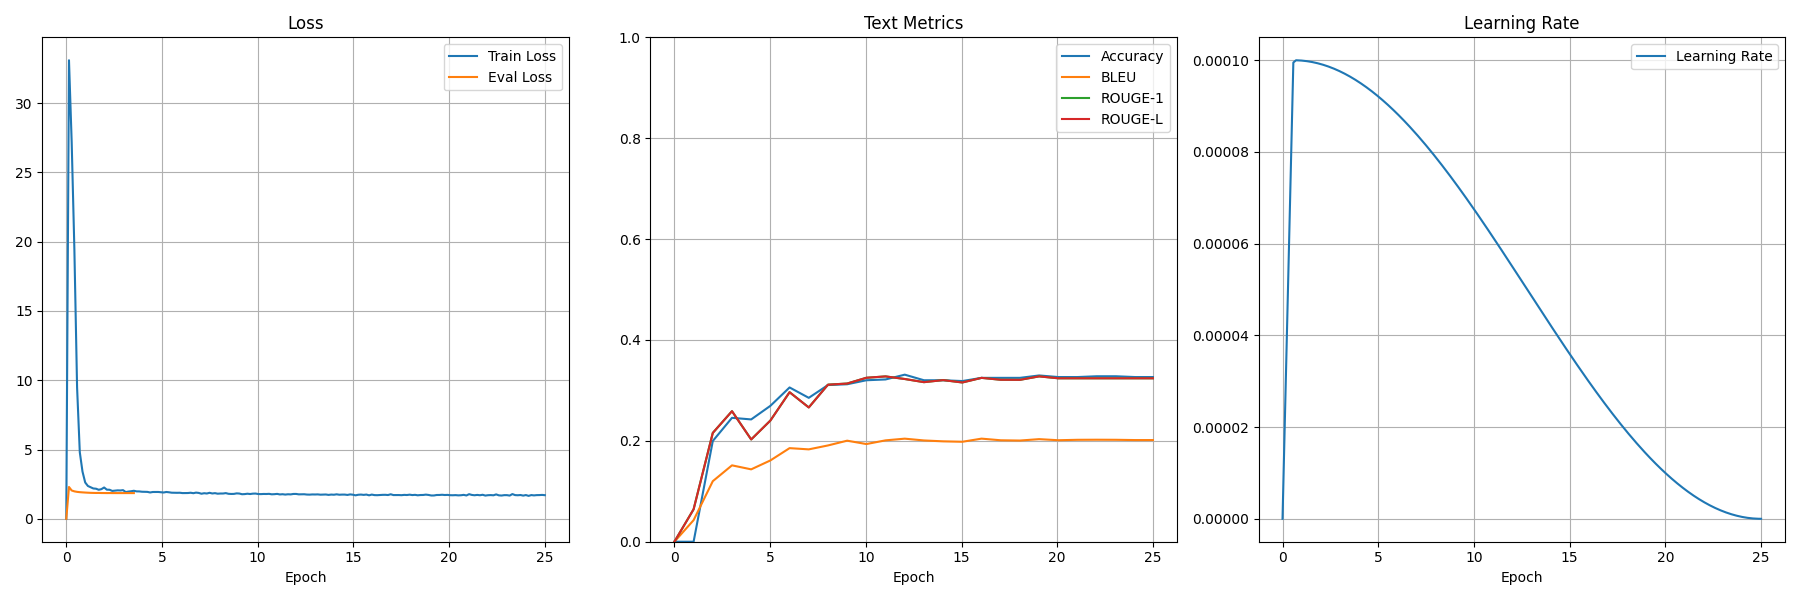
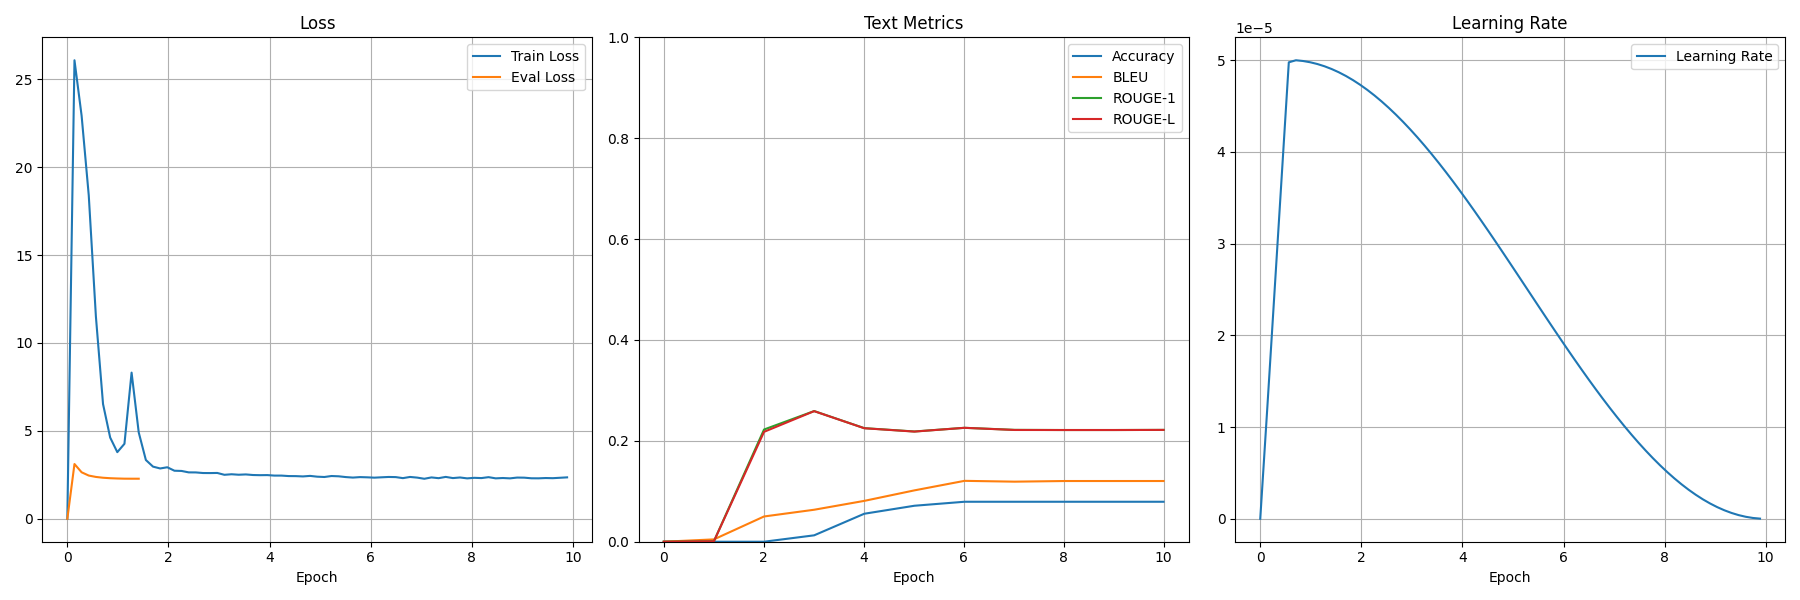
WIP

diff --git a/model_new_ruBERT-tiny2.py b/model_new_ruBERT-tiny2.py
@@ -1,0 +1,272 @@
+import pandas as pd
+import torch
+import numpy as np
+from torch.utils.data import Dataset, DataLoader
+from transformers import (
+    AutoTokenizer,
+    AutoModelForMaskedLM,
+    AdamW,
+    get_cosine_schedule_with_warmup
+)
+from sklearn.model_selection import train_test_split
+import matplotlib.pyplot as plt
+import time
+import os
+from tqdm import tqdm
+from collections import defaultdict
+
+# Конфигурация
+os.makedirs('new_ruBERT-tiny2/train_results', exist_ok=True)
+os.makedirs('new_ruBERT-tiny2/best_model', exist_ok=True)
+
+# Усиленные параметры регуляризации
+MAX_LEN = 128
+BATCH_SIZE = 16
+EPOCHS = 40  # Увеличено для полного обучения
+LEARNING_RATE = 3e-5
+WARMUP_STEPS = 400  # Увеличенный warmup
+DROPOUT_RATE = 0.2  # Усиленный dropout
+WEIGHT_DECAY = 0.02  # Усиленная L2 регуляризация
+PATIENCE = 4  # Увеличенный patience для ранней остановки
+
+# Загрузка и аугментация данных
+data = pd.read_csv("Data/data_slang_final_shuffled.csv", encoding='utf-8')
+
+# 1. Аугментация данных через синонимы
+slang_synonyms = {
+    "ТГ": ["Телеграм", "Телеграмм", "TG"],
+    "гостить": ["пропадать", "забивать", "исчезать"]
+}
+
+def augment_data(df, synonyms, num_augments=2):
+    augmented_rows = []
+    for _, row in df.iterrows():
+        slang = row['slang_word']
+        if slang in synonyms:
+            for synonym in np.random.choice(synonyms[slang], size=min(num_augments, len(synonyms[slang])), replace=False):
+                new_sentence = row['sentence'].replace(slang, synonym)
+                augmented_rows.append({
+                    'sentence': new_sentence,
+                    'slang_word': synonym,
+                    'correct_word': row['correct_word'],
+                    'corrected_sentence': new_sentence.replace(synonym, row['correct_word'])
+                })
+    return pd.concat([df, pd.DataFrame(augmented_rows)], ignore_index=True)
+
+augmented_data = augment_data(data, slang_synonyms)
+
+# 2. Балансировка классов
+slang_counts = augmented_data['slang_word'].value_counts()
+max_count = slang_counts.max()
+balanced_data = pd.DataFrame()
+
+for slang in slang_counts.index:
+    slang_data = augmented_data[augmented_data['slang_word'] == slang]
+    if len(slang_data) < max_count:
+        oversampled = slang_data.sample(max_count - len(slang_data), replace=True, random_state=42)
+        slang_data = pd.concat([slang_data, oversampled])
+    balanced_data = pd.concat([balanced_data, slang_data])
+
+train_data, val_data = train_test_split(balanced_data, test_size=0.1, random_state=42)
+
+# Датасет с улучшенной обработкой
+class AugmentedSlangDataset(Dataset):
+    def __init__(self, data, tokenizer, max_len):
+        self.data = data
+        self.tokenizer = tokenizer
+        self.max_len = max_len
+
+    def __len__(self):
+        return len(self.data)
+
+    def __getitem__(self, idx):
+        item = self.data.iloc[idx]
+        sentence = item['sentence']
+        corrected = item['corrected_sentence']
+
+        # Токенизация
+        inputs = self.tokenizer(
+            sentence,
+            max_length=self.max_len,
+            padding='max_length',
+            truncation=True,
+            return_tensors='pt'
+        )
+
+        targets = self.tokenizer(
+            corrected,
+            max_length=self.max_len,
+            padding='max_length',
+            truncation=True,
+            return_tensors='pt'
+        )
+
+        return {
+            'input_ids': inputs['input_ids'].flatten(),
+            'attention_mask': inputs['attention_mask'].flatten(),
+            'labels': targets['input_ids'].flatten(),
+            'target_mask': (targets['input_ids'] != self.tokenizer.pad_token_id).float().flatten()
+        }
+
+# Инициализация модели с усиленной регуляризацией
+tokenizer = AutoTokenizer.from_pretrained("cointegrated/rubert-tiny2")
+model = AutoModelForMaskedLM.from_pretrained("cointegrated/rubert-tiny2")
+
+# Усиленный dropout
+model.config.hidden_dropout_prob = DROPOUT_RATE
+model.config.attention_probs_dropout_prob = DROPOUT_RATE
+
+# Частичная заморозка слоев (улучшение 2)
+for param in model.bert.encoder.layer[:6].parameters():  # Замораживаем первые 6 из 12 слоев
+    param.requires_grad = False
+
+# Подготовка данных
+train_dataset = AugmentedSlangDataset(train_data, tokenizer, MAX_LEN)
+val_dataset = AugmentedSlangDataset(val_data, tokenizer, MAX_LEN)
+
+train_loader = DataLoader(train_dataset, batch_size=BATCH_SIZE, shuffle=True)
+val_loader = DataLoader(val_dataset, batch_size=BATCH_SIZE, shuffle=False)
+
+# Оптимизатор с усиленной регуляризацией
+optimizer = AdamW(
+    filter(lambda p: p.requires_grad, model.parameters()),  # Только незамороженные параметры
+    lr=LEARNING_RATE,
+    weight_decay=WEIGHT_DECAY,
+    correct_bias=False
+)
+total_steps = len(train_loader) * EPOCHS
+
+scheduler = get_cosine_schedule_with_warmup(
+    optimizer,
+    num_warmup_steps=WARMUP_STEPS,
+    num_training_steps=total_steps,
+    num_cycles=0.5
+)
+
+device = torch.device('cuda' if torch.cuda.is_available() else 'cpu')
+model.to(device)
+
+# Метрики с улучшенной обработкой PAD-токенов
+def masked_accuracy(preds, labels, mask):
+    preds = torch.argmax(preds, dim=2)
+    correct = (preds == labels) * mask
+    return correct.sum().item() / mask.sum().item()
+
+def train_epoch(model, dataloader, optimizer, scheduler, device):
+    model.train()
+    total_loss, total_acc = 0, 0
+
+    for batch in tqdm(dataloader, desc="Training"):
+        optimizer.zero_grad()
+
+        inputs = {k: v.to(device) for k, v in batch.items() if k != 'target_mask'}
+        outputs = model(**inputs)
+
+        loss = outputs.loss
+        acc = masked_accuracy(outputs.logits, inputs['labels'], batch['target_mask'].to(device))
+
+        loss.backward()
+        torch.nn.utils.clip_grad_norm_(model.parameters(), 1.0)
+        optimizer.step()
+        scheduler.step()
+
+        total_loss += loss.item()
+        total_acc += acc
+
+    return total_loss / len(dataloader), total_acc / len(dataloader)
+
+def eval_epoch(model, dataloader, device):
+    model.eval()
+    total_loss, total_acc = 0, 0
+
+    with torch.no_grad():
+        for batch in tqdm(dataloader, desc="Validation"):
+            inputs = {k: v.to(device) for k, v in batch.items() if k != 'target_mask'}
+            outputs = model(**inputs)
+
+            loss = outputs.loss
+            acc = masked_accuracy(outputs.logits, inputs['labels'], batch['target_mask'].to(device))
+
+            total_loss += loss.item()
+            total_acc += acc
+
+    return total_loss / len(dataloader), total_acc / len(dataloader)
+
+# Обучение с улучшенным логированием
+best_val_loss = float('inf')
+patience_counter = 0
+history = defaultdict(list)
+
+for epoch in range(EPOCHS):
+    print(f"\nEpoch {epoch + 1}/{EPOCHS}")
+    start_time = time.time()
+
+    train_loss, train_acc = train_epoch(model, train_loader, optimizer, scheduler, device)
+    val_loss, val_acc = eval_epoch(model, val_loader, device)
+
+    epoch_time = time.time() - start_time
+    current_lr = scheduler.get_last_lr()[0]
+
+    # Сохранение истории
+    history['train_loss'].append(train_loss)
+    history['val_loss'].append(val_loss)
+    history['train_acc'].append(train_acc)
+    history['val_acc'].append(val_acc)
+    history['lr'].append(current_lr)
+    history['epoch_time'].append(epoch_time)
+
+    # Сохранение лучшей модели
+    if val_loss < best_val_loss:
+        best_val_loss = val_loss
+        model.save_pretrained('new_ruBERT-tiny2/best_model')
+        tokenizer.save_pretrained('new_ruBERT-tiny2/best_model')
+        patience_counter = 0
+    else:
+        patience_counter += 1
+
+    # Логирование
+    log_msg = (
+        f"Epoch {epoch + 1}/{EPOCHS}\n"
+        f"Train Loss: {train_loss:.4f} | Acc: {train_acc:.4f}\n"
+        f"Val Loss: {val_loss:.4f} | Acc: {val_acc:.4f}\n"
+        f"LR: {current_lr:.2e} | Time: {epoch_time:.2f}s\n"
+    )
+    print(log_msg)
+
+    with open('new_ruBERT-tiny2/train_results/training_log.txt', 'a') as f:
+        f.write(log_msg + "\n")
+
+    # Ранняя остановка
+    if patience_counter >= PATIENCE:
+        print(f"\nEarly stopping after {PATIENCE} epochs without improvement")
+        break
+
+# Сохранение финальной модели и визуализация
+model.save_pretrained('new_ruBERT-tiny2/final_model')
+tokenizer.save_pretrained('new_ruBERT-tiny2/final_model')
+
+plt.figure(figsize=(15, 5))
+plt.subplot(1, 3, 1)
+plt.plot(history['train_loss'], label='Train')
+plt.plot(history['val_loss'], label='Validation')
+plt.title('Loss')
+plt.legend()
+
+plt.subplot(1, 3, 2)
+plt.plot(history['train_acc'], label='Train')
+plt.plot(history['val_acc'], label='Validation')
+plt.title('Accuracy')
+plt.legend()
+
+plt.subplot(1, 3, 3)
+plt.plot(history['lr'], label='Learning Rate')
+plt.title('LR Schedule')
+plt.legend()
+
+plt.tight_layout()
+plt.savefig('new_ruBERT-tiny2/train_results/metrics.png')
+plt.show()
+
+print("\nTraining complete!")
+print(f"Best Val Loss: {best_val_loss:.4f}")
+print(f"Best Val Accuracy: {max(history['val_acc']):.4f}")

diff --git a/rework/learn_rut5small.py b/rework/learn_rut5small.py
@@ -35,12 +35,9 @@ class LogCallback(TrainerCallback):
                 f"Пользователь: {ex.get('ticket_message', 'нет')}"
             )
             input_ids = self.tokenizer.encode(
-                ex['text'], return_tensors="pt", max_length=256, truncation=True
+                ex["text"], return_tensors="pt", max_length=256, truncation=True
             ).to(model.device)
-            outputs = model.generate(
-                input_ids,
-                max_length=64
-            )
+            outputs = model.generate(input_ids, max_length=64)
             answer = self.tokenizer.decode(outputs[0], skip_special_tokens=True)
 
             print(f"\n[Категория]: {ex.get('category_title', 'нет')}")
@@ -168,17 +165,14 @@ if __name__ == "__main__":
         full_data = json.load(f)
 
     train_data, test_data = train_test_split(
-        full_data,
-        test_size=0.1,
-        random_state=42,
-        shuffle=True
+        full_data, test_size=0.1, random_state=42, shuffle=True
     )
 
     train_dataset = Dataset.from_list(train_data)
     test_dataset = Dataset.from_list(test_data)
 
-    model = T5ForConditionalGeneration.from_pretrained("cointegrated/rut5-base")
-    tokenizer = T5Tokenizer.from_pretrained("cointegrated/rut5-base", legacy=False)
+    model = T5ForConditionalGeneration.from_pretrained("cointegrated/rut5-small")
+    tokenizer = T5Tokenizer.from_pretrained("cointegrated/rut5-small", legacy=False)
 
     freeze_encoder(model, unfreeze_last_n=2)
 
@@ -188,11 +182,12 @@ if __name__ == "__main__":
     tokenized_train = train_dataset.map(
         preprocess, remove_columns=train_dataset.column_names
     )
-    tokenized_test = test_dataset.map(preprocess, remove_columns=test_dataset.column_names)
-
+    tokenized_test = test_dataset.map(
+        preprocess, remove_columns=test_dataset.column_names
+    )
 
     training_args = Seq2SeqTrainingArguments(
-        output_dir="./rut5base-finetuned",
+        output_dir="./rut5small-finetuned",
         num_train_epochs=10,
         learning_rate=5e-5,
         weight_decay=0.01,
@@ -230,8 +225,8 @@ if __name__ == "__main__":
 
     trainer.train()
 
-    trainer.save_model("./rut5base-finetuned")
-    tokenizer.save_pretrained("./rut5base-finetuned")
+    trainer.save_model("./rut5small-finetuned")
+    tokenizer.save_pretrained("./rut5small-finetuned")
     print("\n✅ Обучение завершено и модель сохранена")
 
     # === Графики ===
@@ -323,7 +318,7 @@ if __name__ == "__main__":
 
     plt.tight_layout()
     os.makedirs("train_results", exist_ok=True)
-    plt.savefig("train_results/metrics.png")
+    plt.savefig("train_results/metrics-rut5-small.png")
     plt.show()
 
-    print("\n📊 Графики сохранены в train_results/metrics-rut5-base.png")
+    print("\n📊 Графики сохранены в train_results/metrics.png")

diff --git a/model_use.py b/model_use.py
@@ -1,0 +1,43 @@
+import torch
+from transformers import AutoTokenizer, AutoModelForMaskedLM
+
+# Загрузка обученной модели и токенизатора
+model_path = 'new_ruBERT-tiny2/best_model'
+tokenizer = AutoTokenizer.from_pretrained(model_path)
+model = AutoModelForMaskedLM.from_pretrained(model_path)
+
+device = torch.device('cuda' if torch.cuda.is_available() else 'cpu')
+model = model.to(device)
+model.eval()
+
+
+# Функция для исправления сленга в предложении
+def correct_slang(sentence):
+    # Токенизация предложения
+    inputs = tokenizer(sentence, return_tensors="pt", max_length=128, truncation=True)
+    inputs = {key: val.to(device) for key, val in inputs.items()}
+
+    with torch.no_grad():
+        outputs = model(**inputs)
+
+    logits = outputs.logits
+    predicted_ids = logits.argmax(dim=-1)
+
+    corrected_sentence = tokenizer.decode(predicted_ids[0], skip_special_tokens=True)
+
+    return corrected_sentence
+
+
+# Тестирование
+def main():
+    while True:
+        sentence = input("\nВведите предложение (или 'exit' для выхода): ")
+        if sentence.lower() == 'exit':
+            break
+        corrected = correct_slang(sentence)
+        print(f"Оригинал: {sentence}")
+        print(f"Исправлено: {corrected}")
+
+
+if __name__ == "__main__":
+    main()

diff --git a/rework/extract_data.py b/rework/extract_data.py
@@ -141,6 +141,8 @@ if __name__ == "__main__":
         idx = max(i for i, m in enumerate(messages) if m["role"] == "Оператор")
 
         last_operator_msg = messages[idx]
+        if last_operator_msg["message"].strip() == "[URL]":
+            continue
         dialogue = build_dialogue(messages, idx)
         category = ticket_categories.get(ticket_id, "неизвестно")
         subject = ticket_subjects.get(ticket_id, "Без темы")
